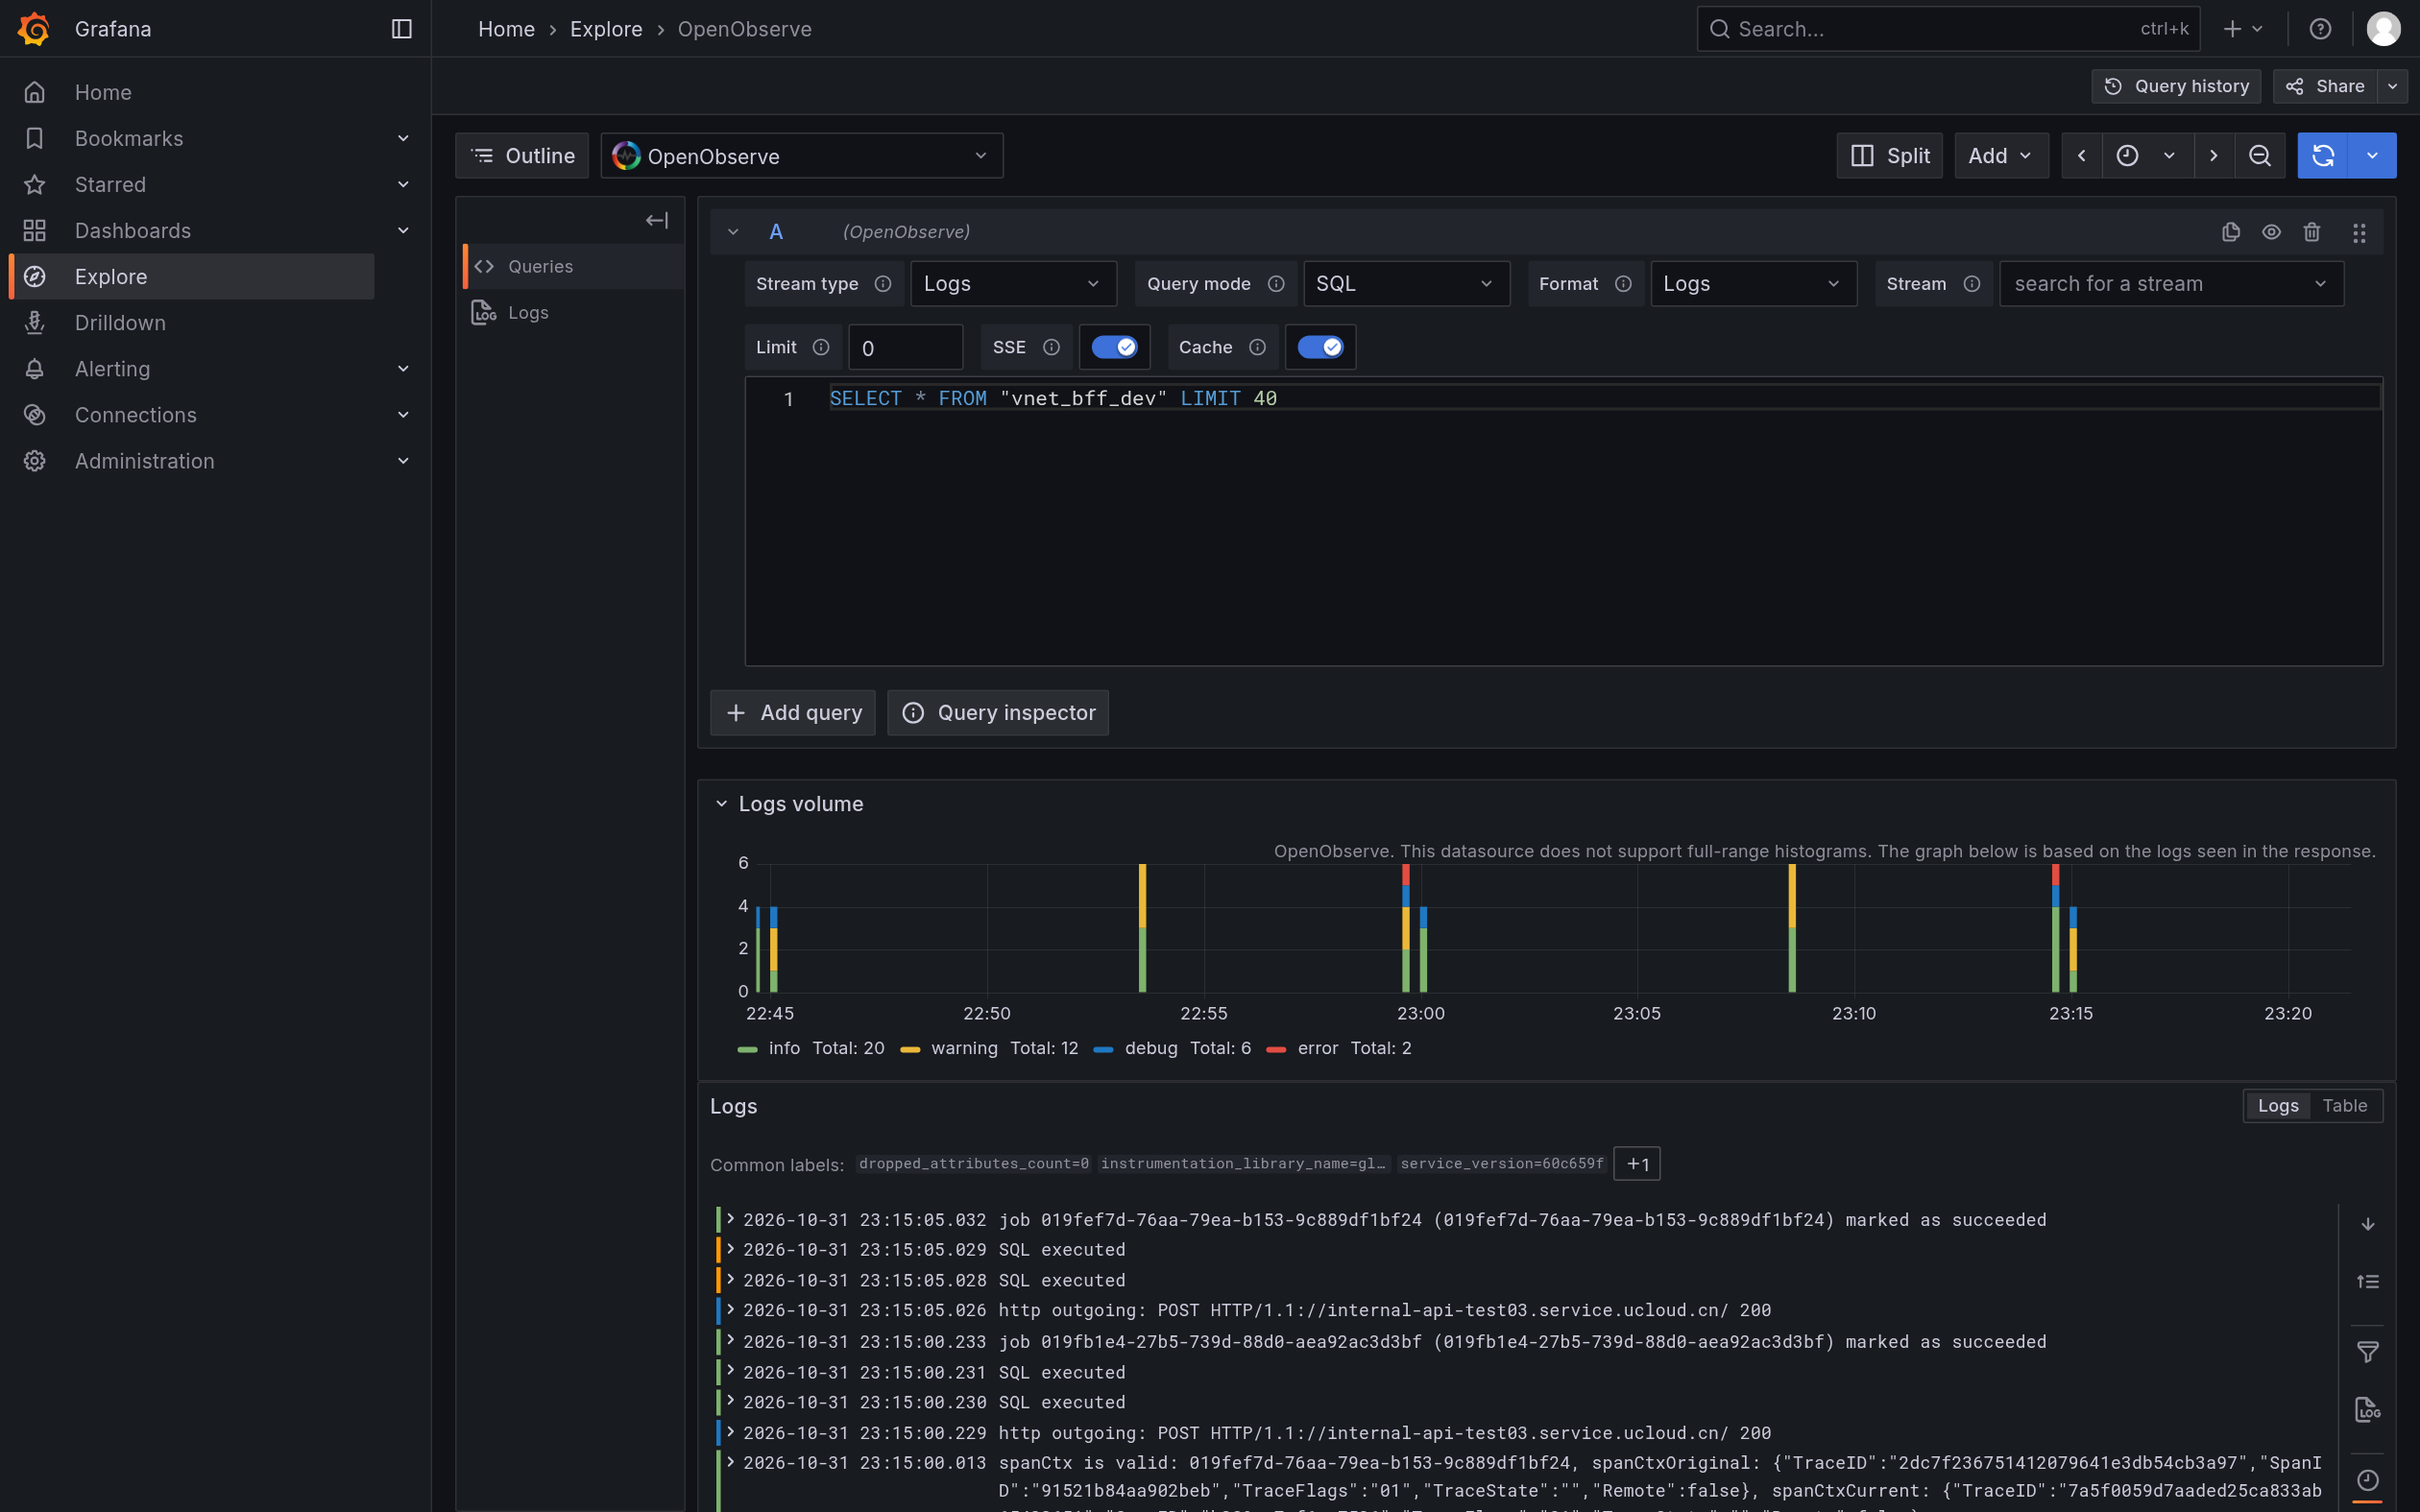
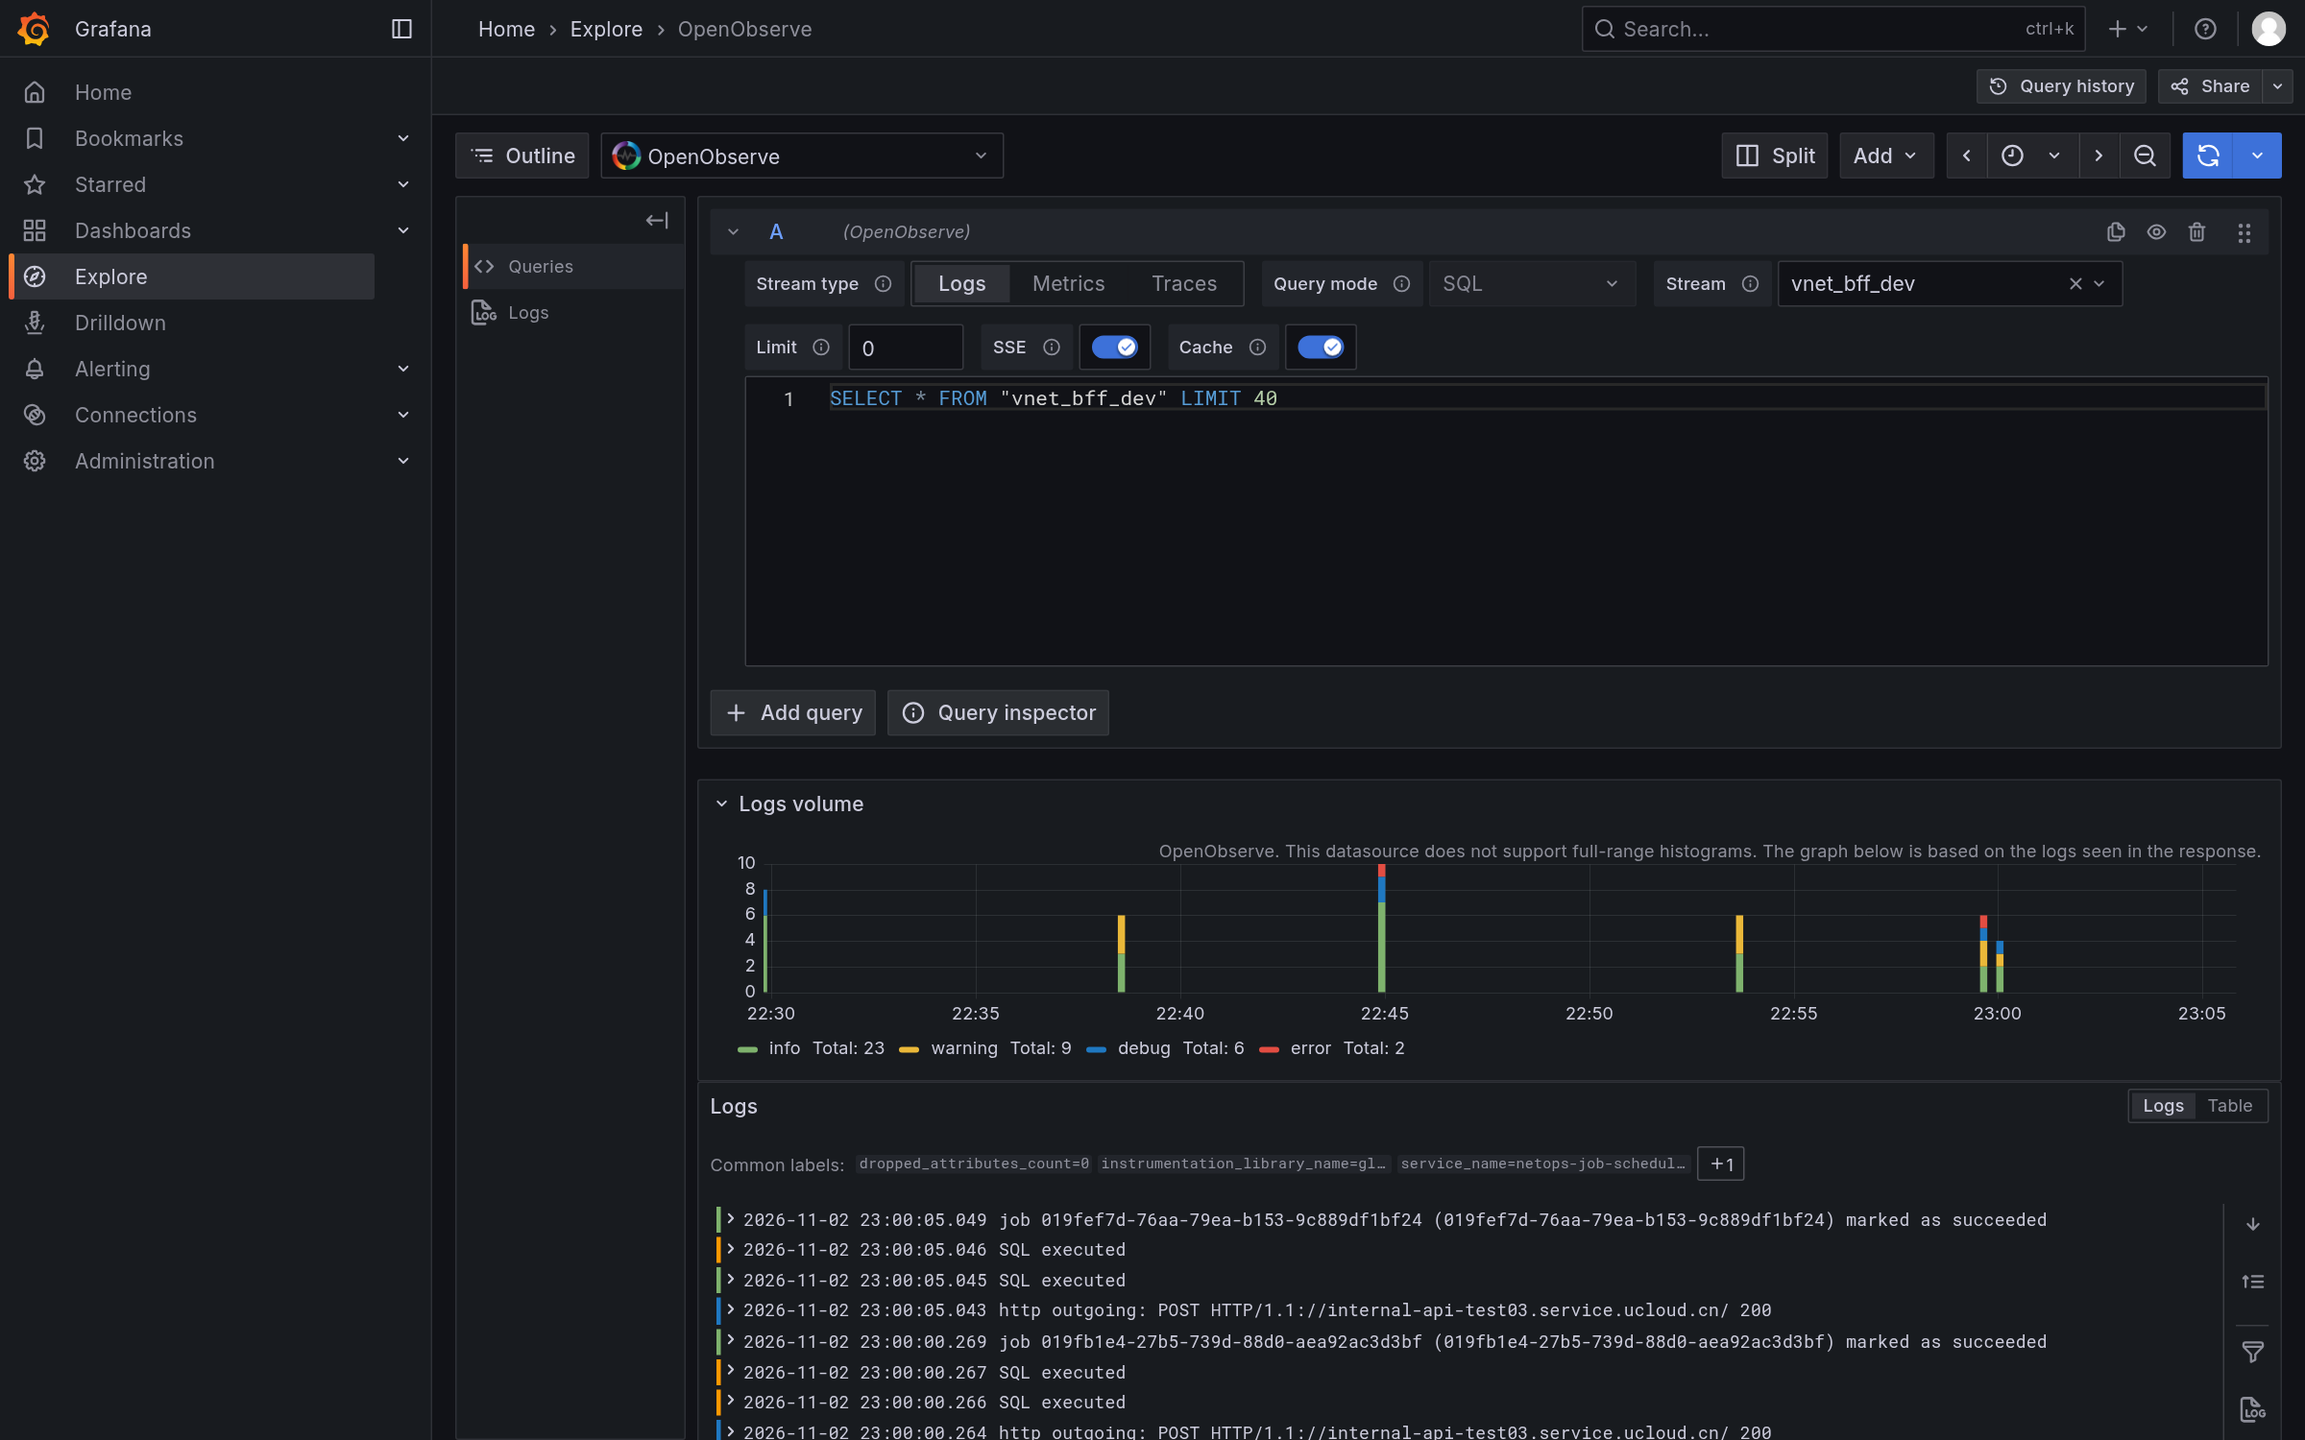
fix(traces): read startTime as nanoseconds, and prepare the 2.1.0 release
The trace list showed the year 2106. `start_time` is a nanosecond epoch
(19 digits) and the code called time.UnixMicro on it, which is 1000x off.
It now uses time.Unix(0, ns); the column reads
`2026-11-02 23:03:34` for a trace from a minute ago.

Also for the 2.1.0 release:
- README screenshots and the tour GIF/WebP re-recorded against the current
  UI (no Format picker, formatted time and duration columns, node graph).
- README usage no longer tells the reader to set Format, which is gone.
- Version 2.1.0 in package.json and the lockfile, with a CHANGELOG entry.

Test added with a real nanosecond timestamp, asserting the year and that the
source value survives.

diff --git a/pkg/plugin/plugin_test.go b/pkg/plugin/plugin_test.go
@@ -492,6 +492,37 @@ func TestQueryDataTraceSearchBuildsListFrame(t *testing.T) {
 	}
 }
 
+// start_time is a nanosecond epoch; reading it as microseconds put every trace
+// in the year 2106.
+func TestTraceListStartTimeIsNanoseconds(t *testing.T) {
+	// 2026-11-02T14:57:46Z as a nanosecond epoch.
+	const ns int64 = 1793631466523592702
+	ds := newTestDatasource(t, http.HandlerFunc(func(rw http.ResponseWriter, _ *http.Request) {
+		_, _ = rw.Write([]byte(`{"hits":[
+			{"trace_id":"aaa","first_span":1793631466523592702,"total_duration":1000,
+			 "spans":1,"entry_operation":"GET /","entry_service":"vnet-bff","services":1}
+		],"total":1}`))
+	}))
+
+	resp, err := ds.QueryData(context.Background(), queryRequest(t, map[string]any{
+		"queryType": "traces", "traceMode": "search", "table": "prd",
+	}))
+	if err != nil {
+		t.Fatalf("QueryData: %v", err)
+	}
+	frame := resp.Responses["A"].Frames[0]
+	got, ok := frame.Fields[2].At(0).(*time.Time)
+	if !ok {
+		t.Fatalf("startTime type = %T, want *time.Time", frame.Fields[2].At(0))
+	}
+	if got.Year() != 2026 {
+		t.Errorf("startTime year = %d, want 2026 (nanosecond epoch)", got.Year())
+	}
+	if diff := got.UnixNano() - ns; diff > 1000 || diff < -1000 {
+		t.Errorf("startTime = %v, want the source nanoseconds preserved", got)
+	}
+}
+
 func TestQueryDataTraceIDRequiresID(t *testing.T) {
 	ds := newTestDatasource(t, http.HandlerFunc(func(rw http.ResponseWriter, _ *http.Request) {
 		_, _ = rw.Write([]byte(`{"hits":[]}`))

diff --git a/pkg/openobserve/trace.go b/pkg/openobserve/trace.go
@@ -265,10 +265,11 @@ type TraceSummary struct {
 	TraceID       string
 	ServiceName   string
 	OperationName string
-	StartTimeUS   int64
-	DurationUS    int64
-	SpanCount     int64
-	ServiceCount  int64
+	// StartTimeNS is the trace's first span start, a nanosecond epoch.
+	StartTimeNS  int64
+	DurationUS   int64
+	SpanCount    int64
+	ServiceCount int64
 }
 
 // ServiceEdge is one edge of the dependency graph.
@@ -287,7 +288,7 @@ func SummarizeTraces(rs *ResultSet) []TraceSummary {
 			TraceID:       ToString(rowValue(rs, row, "trace_id")),
 			ServiceName:   ToString(rowValue(rs, row, "entry_service")),
 			OperationName: ToString(rowValue(rs, row, "entry_operation")),
-			StartTimeUS:   toInt64(rowValue(rs, row, "first_span")),
+			StartTimeNS:   toInt64(rowValue(rs, row, "first_span")),
 			DurationUS:    toInt64(rowValue(rs, row, "total_duration")),
 			SpanCount:     toInt64(rowValue(rs, row, "spans")),
 			ServiceCount:  toInt64(rowValue(rs, row, "services")),

diff --git a/pkg/plugin/trace.go b/pkg/plugin/trace.go
@@ -212,7 +212,9 @@ func buildTraceListFrames(rs *openobserve.ResultSet, executedQuery string, loc *
 				name = s.ServiceName + ": " + name
 			}
 		}
-		ts := time.UnixMicro(s.StartTimeUS).In(loc)
+		// start_time is a nanosecond epoch here (19 digits); reading it as
+		// microseconds put every trace in the year 2106.
+		ts := time.Unix(0, s.StartTimeNS).In(loc)
 		traceID = append(traceID, s.TraceID)
 		traceName = append(traceName, name)
 		// A real time field and a milliseconds field let Grafana format both

diff --git a/CHANGELOG.md b/CHANGELOG.md
@@ -1,5 +1,36 @@
 # Changelog
 
+## 2.1.0
+
+### Added
+
+- Trace ids in the search table open the trace inside Grafana (internal link to
+  Explore's split view), instead of requiring the id to be pasted by hand.
+- The service dependency graph is drawn as a Grafana node graph, and a Service
+  Name filter selects the edges touching that service in either direction.
+
+### Changed
+
+- The **Format** selector is gone. The frame shape follows from the stream type
+  and the statement, so a second switch could only contradict it.
+- Trace `startTime` is a real time column and `duration` is expressed in
+  milliseconds, so both read as a timestamp and a duration.
+- The **Limit** field and the SQL `LIMIT` mirror each other, for logs, metrics
+  and traces alike.
+- Switching stream type runs the query once the new stream is adopted, instead
+  of leaving stale results on screen.
+- Service graph edges are derived from OpenObserve's inferred service name, so
+  a client span attributes to the system it calls rather than to the caller.
+
+### Fixed
+
+- Trace `startTime` showed the year 2106: the nanosecond epoch was read as
+  microseconds.
+- Graph queries with a Service Name failed with `unknown field 'child'`.
+- Trace queries were dropped before being sent when they carried a leftover
+  `rawSql` from another stream type.
+- Trace duration was 1000x too large.
+
 ## 2.0.0 (Unreleased)
 
 Backend and query experience rewrite. The plugin id, the SQL syntax and existing

diff --git a/README.md b/README.md
@@ -287,8 +287,9 @@ Point the URL at your OpenObserve server, fill in the organization (usually
 SELECT * FROM "my_logs" LIMIT 500
 ```
 
-Set **Format** to `Logs` to get level colours and the full attribute list in
-Explore.
+A `SELECT *` over a log stream renders as log lines with level colours and
+every original column as an attribute. There is no Format switch to set: the
+frame shape follows from the stream type and the statement itself.
 
 ### 3. Query metrics
 
@@ -301,17 +302,23 @@ GROUP BY ts, service_name
 ORDER BY ts
 ```
 
-Set **Format** to `Time series`. One series per `service_name`, no transformations.
+A time column plus numbers renders as a time series, one line per
+`service_name`, with no transformations.
 
 Or switch **Query mode** to `PromQL` and write `go_goroutine_count` directly.
 
 ### 4. Query traces
 
-```sql
-SELECT * FROM "my_traces" WHERE trace_id = '<id>' ORDER BY start_time
-```
+Pick the `traces` stream type, choose a trace stream, then pick a query type:
 
-Set **Format** to `Trace` and Explore renders the waterfall.
+- **Search** lists the traces matching the filters.
+- **TraceID** renders one trace as the waterfall.
+- **Graph** draws the service dependency graph.
+
+### 5. Limit
+
+The **Limit** field and the SQL `LIMIT` stay in step: typing one updates the
+other, so the panel and the statement never disagree about row counts.
 
 ### 5. Use variables and ad-hoc filters
 
